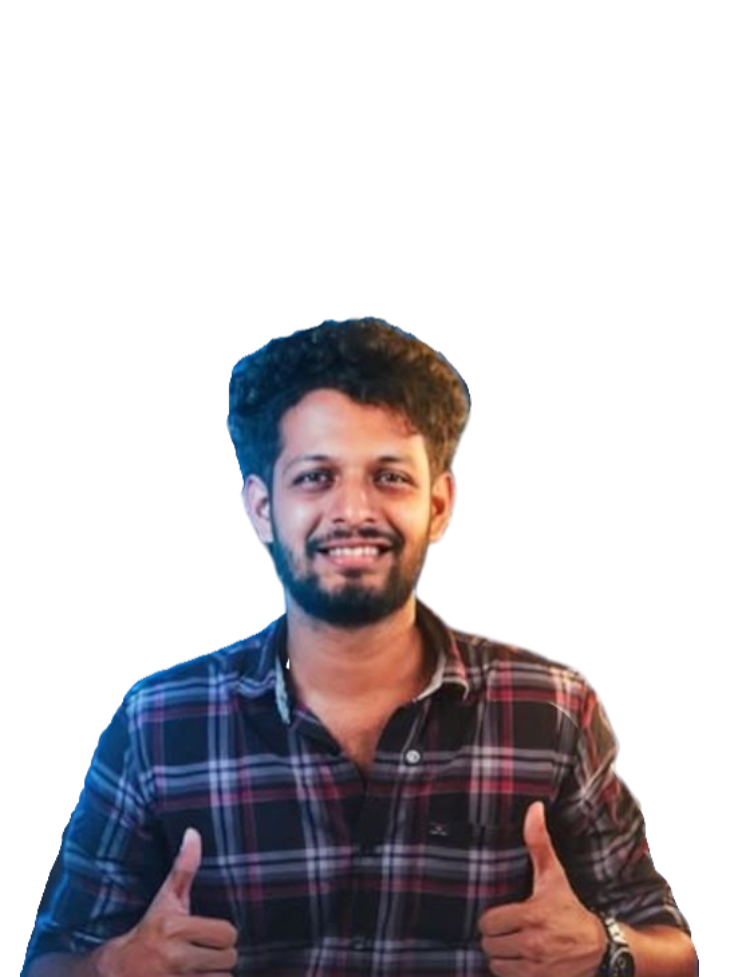
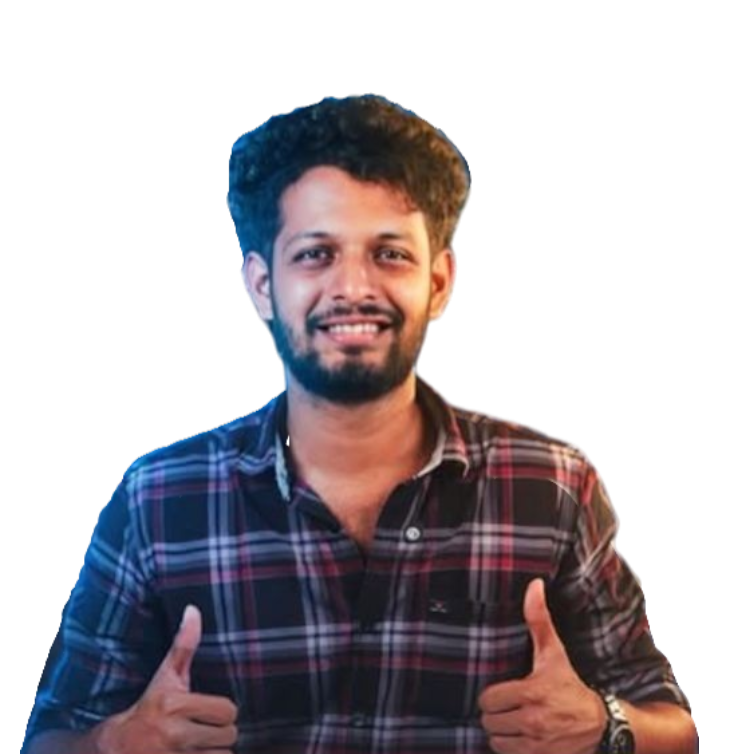
Update speaker images and styling

diff --git a/index.html b/index.html
@@ -442,7 +442,7 @@
             <div class="speakers-grid">
                 <div class="speaker-card reveal">
                     <div class="speaker-avatar"><img src="assets/images/speakers/alwyn_pais.png"
-                            alt="Dr. Alwyn Roshan Pais"
+                            style="object-position: 50% 15%;" alt="Dr. Alwyn Roshan Pais - Speaker"
                             onerror="this.onerror=null; this.parentElement.innerHTML='<div class=\'speaker-avatar-placeholder\'>AP</div>'">
                     </div>
                     <h4 class="speaker-name">Dr. Alwyn Roshan Pais</h4>
@@ -452,7 +452,7 @@
                 </div>
                 <div class="speaker-card reveal">
                     <div class="speaker-avatar"><img src="assets/images/speakers/aswin_madathil.png"
-                            alt="Aswin Madathil"
+                            style="object-position: 50% 15%;" alt="Aswin Madathil - Speaker"
                             onerror="this.onerror=null; this.parentElement.innerHTML='<div class=\'speaker-avatar-placeholder\'>AM</div>'">
                     </div>
                     <h4 class="speaker-name">Aswin Madathil</h4>
@@ -461,7 +461,8 @@
                     <div class="speaker-topic">React Native AI App</div>
                 </div>
                 <div class="speaker-card reveal">
-                    <div class="speaker-avatar"><img src="assets/images/speakers/rahul_ep.png" alt="Rahul P"
+                    <div class="speaker-avatar"><img src="assets/images/speakers/rahul_ep.png"
+                            style="object-position: 50% 15%;" alt="Rahul P - Speaker"
                             onerror="this.onerror=null; this.parentElement.innerHTML='<div class=\'speaker-avatar-placeholder\'>RP</div>'">
                     </div>
                     <h4 class="speaker-name">Rahul P</h4>
@@ -491,7 +492,7 @@
                 </div>
                 <div class="speaker-card reveal">
                     <div class="speaker-avatar"><img src="assets/images/speakers/adithya_chandran.png"
-                            alt="Adithya Chandra"
+                            style="object-position: 50% 15%;" alt="Adithya Chandra - Speaker"
                             onerror="this.onerror=null; this.parentElement.innerHTML='<div class=\'speaker-avatar-placeholder\'>AC</div>'">
                     </div>
                     <h4 class="speaker-name">Adithya Chandra</h4>
@@ -500,7 +501,8 @@
                     <div class="speaker-topic">Web Development</div>
                 </div>
                 <div class="speaker-card reveal">
-                    <div class="speaker-avatar"><img src="assets/images/speakers/premjith_p.png" alt="Dr. Premjith B"
+                    <div class="speaker-avatar"><img src="assets/images/speakers/premjith_p.png"
+                            style="object-position: 50% 15%;" alt="Dr. Premjith B - Speaker"
                             onerror="this.onerror=null; this.parentElement.innerHTML='<div class=\'speaker-avatar-placeholder\'>PB</div>'">
                     </div>
                     <h4 class="speaker-name">Dr. Premjith B</h4>

diff --git a/style.css b/style.css
@@ -1292,6 +1292,18 @@ section {
 /* ===== SPEAKERS ===== */
 .speakers {
   background: var(--bg-primary);
+  background: radial-gradient(circle at 50% 50%, rgba(99, 102, 241, 0.05) 0%, var(--bg-primary) 70%);
+  position: relative;
+}
+
+.speakers::before {
+  content: '';
+  position: absolute;
+  top: 0;
+  left: 0;
+  right: 0;
+  height: 1px;
+  background: linear-gradient(90deg, transparent, var(--border-color), transparent);
 }
 
 .speakers-grid {
@@ -1332,20 +1344,22 @@ section {
 }
 
 .speaker-avatar {
-  width: 90px;
-  height: 90px;
+  width: 110px;
+  height: 110px;
   border-radius: 50%;
-  margin: 0 auto 18px;
+  margin: 0 auto 1.5rem;
   overflow: hidden;
-  border: 3px solid rgba(99, 102, 241, 0.3);
-  box-shadow: 0 0 20px rgba(99, 102, 241, 0.25);
+  border: 4px solid rgba(99, 102, 241, 0.4);
+  box-shadow: 0 0 30px rgba(99, 102, 241, 0.25), 0 0 60px rgba(0, 212, 255, 0.1);
   position: relative;
   transition: var(--transition);
+  background: var(--bg-card-hover);
 }
 
 .speaker-card:hover .speaker-avatar {
-  border-color: rgba(0, 212, 255, 0.6);
-  box-shadow: 0 0 30px rgba(0, 212, 255, 0.4);
+  border-color: var(--neon-blue);
+  box-shadow: 0 0 40px rgba(0, 212, 255, 0.5), 0 0 80px rgba(99, 102, 241, 0.3);
+  transform: scale(1.05);
 }
 
 .speaker-avatar img {
@@ -1361,9 +1375,11 @@ section {
   align-items: center;
   justify-content: center;
   font-family: var(--font-heading);
-  font-size: 1.8rem;
+  font-size: 2rem;
   font-weight: 800;
   color: white;
+  background: var(--gradient-1);
+  text-shadow: 0 2px 10px rgba(0, 0, 0, 0.3);
 }
 
 .speaker-name {
